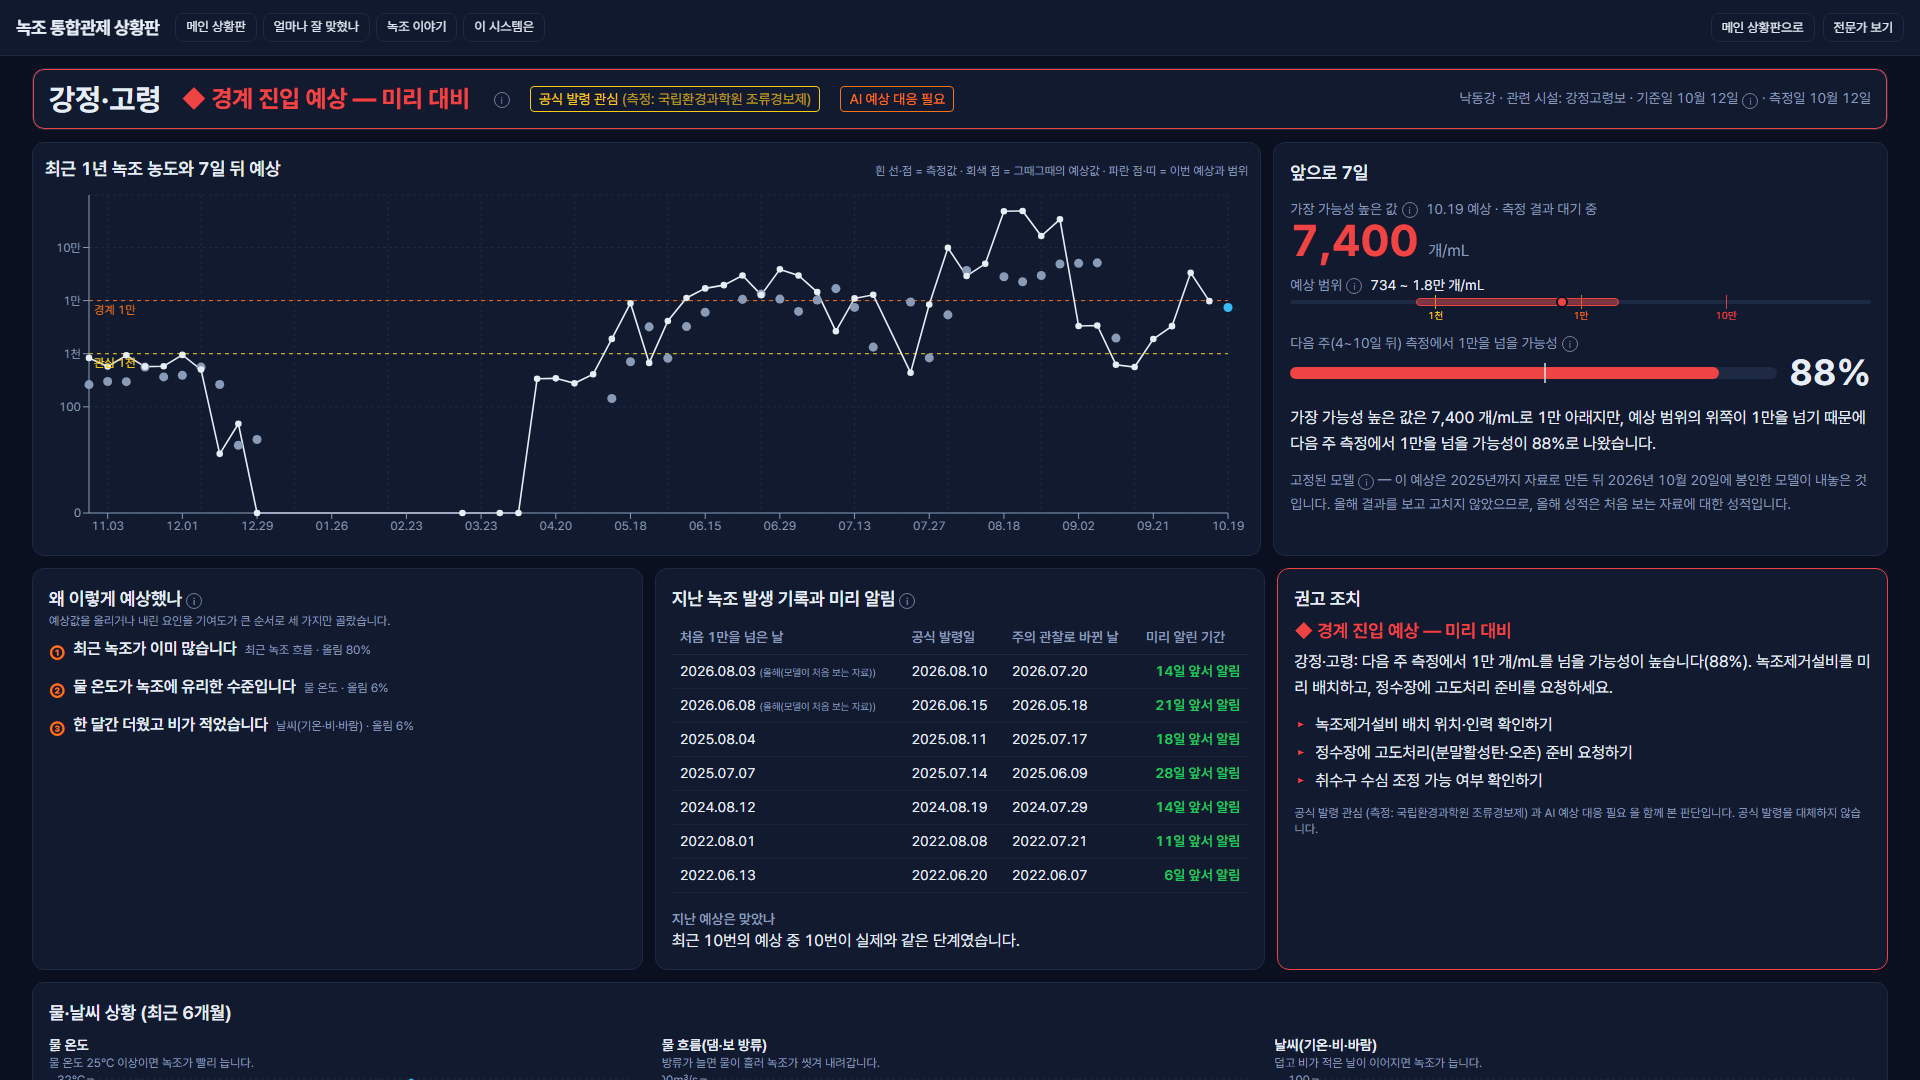
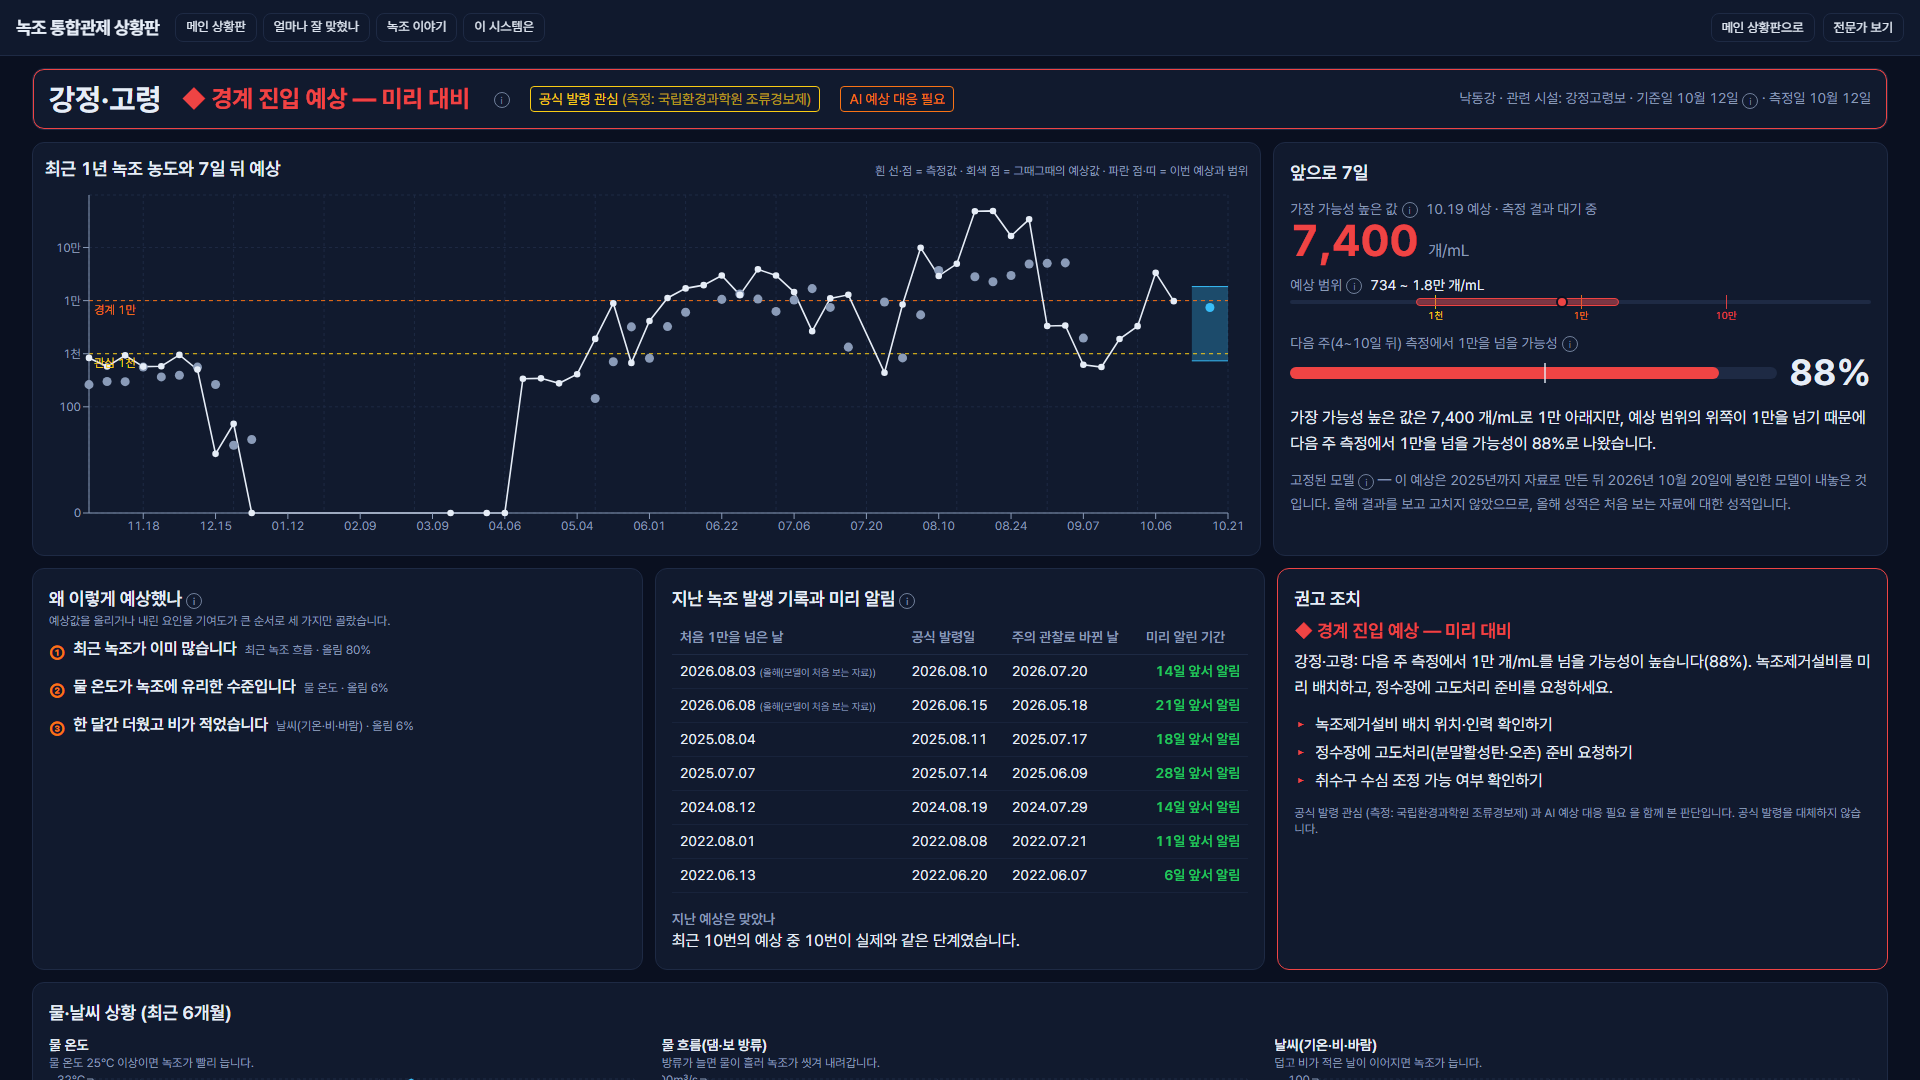
fix(web): 지점 상세 예상 범위 띠 렌더·타일 머리 줄 폭 조정
Claude-Session: https://claude.ai/code/session_017ddh39e3MD6zytL8k6pS4n

diff --git a/web/src/components/site/SiteCharts.tsx b/web/src/components/site/SiteCharts.tsx
@@ -1,6 +1,6 @@
 "use client";
 
-import { CartesianGrid, ComposedChart, ErrorBar, Line, ReferenceLine, ResponsiveContainer, Scatter, Tooltip, XAxis, YAxis } from "recharts";
+import { Area, CartesianGrid, ComposedChart, Line, ReferenceLine, ResponsiveContainer, Scatter, Tooltip, XAxis, YAxis } from "recharts";
 import { SITE } from "@/lib/copy";
 import { fmtCells, fmtDate } from "@/lib/format";
 
@@ -17,7 +17,7 @@ export function BigChart({ points, height = 380 }: { points: SeriesPoint[]; heig
     const q = toLog(p.q50);
     const lo = toLog(p.lo);
     const hi = toLog(p.hi);
-    return { date: p.date, obs: toLog(p.obs), q50: q, err: q != null && lo != null && hi != null ? [q - lo, hi - q] : undefined, band: lo != null && hi != null ? [lo, hi] : null, past_pred: toLog(p.past_pred) };
+    return { date: p.date, obs: toLog(p.obs), q50: q, band: lo != null && hi != null ? [lo, hi] : null, past_pred: toLog(p.past_pred) };
   });
   const maxLv = Math.max(4.5, ...data.flatMap((d) => [d.obs ?? 0, d.q50 ?? 0, d.past_pred ?? 0, (d.band?.[1] as number) ?? 0])) + 0.3;
   const ticks = [0, 2, 3, 4, 5, 6].filter((t) => t <= maxLv);
@@ -42,9 +42,8 @@ export function BigChart({ points, height = 380 }: { points: SeriesPoint[]; heig
         {maxLv > 6 && <ReferenceLine y={6} stroke={C.l3} strokeDasharray="4 4" label={{ value: "대발생 100만", fontSize: 12, position: "insideTopLeft", fill: C.l3 }} />}
         <Scatter dataKey="past_pred" name={SITE.chart.pastPred} fill={C.past} shape="circle" isAnimationActive={false} />
         <Line dataKey="obs" name={SITE.chart.obs} stroke={C.obs} strokeWidth={1.6} dot={{ r: 2.5, fill: C.obs }} connectNulls isAnimationActive={false} />
-        <Scatter dataKey="q50" name={SITE.chart.next} fill={C.pred} shape="circle" isAnimationActive={false}>
-          <ErrorBar dataKey="err" direction="y" width={14} strokeWidth={6} stroke={C.pred} opacity={0.45} />
-        </Scatter>
+        <Area dataKey="band" name={SITE.chart.band} stroke={C.pred} strokeWidth={1} fill={C.pred} fillOpacity={0.3} connectNulls={false} isAnimationActive={false} />
+        <Scatter dataKey="q50" name={SITE.chart.next} fill={C.pred} shape="circle" isAnimationActive={false} />
       </ComposedChart>
     </ResponsiveContainer>
   );

diff --git a/web/src/app/sites/[id]/page.tsx b/web/src/app/sites/[id]/page.tsx
@@ -4,7 +4,7 @@ import { PageFrame } from "@/components/PageFrame";
 import { RangeBar } from "@/components/control/SiteTile";
 import { BigChart, EnvChart } from "@/components/site/SiteCharts";
 import { BOARD, COMBO, GROUP_LABEL, OFFICIAL_LEVEL, REASON, REASON_WATER_UP_MILD, SITE, TERMS, TIER, TIER_EXPERT, comboOf, levelOfCells, reasonWaterDays, targetLabel, type FeatureGroup } from "@/lib/copy";
-import { ALERT_LEVEL_LABEL, fmtCells, fmtCellsKo, fmtDate, fmtDateFull, fmtDateKo, pctInt, tierOf } from "@/lib/format";
+import { ALERT_LEVEL_LABEL, addDays, fmtCells, fmtCellsKo, fmtDate, fmtDateFull, fmtDateKo, pctInt, tierOf } from "@/lib/format";
 import { getBloomEvents, getHydro, getLatestRun, getObservations, getPredictions, getShap, getSiteStatus, getSites, getWeather } from "@/lib/queries";
 
 export const revalidate = 300;
@@ -35,7 +35,7 @@ export default async function SitePage({ params, searchParams }: { params: Promi
   // 큰 차트: 1년 측정 + 지난 예상(회색) + 이번 예상(파란 점·띠)
   const latest = preds.at(-1);
   const pastByTarget = new Map(preds.filter((x) => x.target_date !== latest?.target_date).map((x) => [x.target_date, x.q50]));
-  const pts = [...obs.map((o) => ({ date: o.obs_date, obs: o.cell_count, past_pred: pastByTarget.get(o.obs_date) ?? null })), ...(latest ? [{ date: latest.target_date, obs: null, q50: latest.q50, lo: latest.q10_cqr, hi: latest.q90_cqr }] : [])].sort((a, b) => a.date.localeCompare(b.date));
+  const pts = [...obs.map((o) => ({ date: o.obs_date, obs: o.cell_count, past_pred: pastByTarget.get(o.obs_date) ?? null })), ...(latest ? [-2, 0, 2].map((d) => ({ date: addDays(latest.target_date, d).toISOString().slice(0, 10), obs: null, q50: d === 0 ? latest.q50 : null, lo: latest.q10_cqr, hi: latest.q90_cqr })) : [])].sort((a, b) => a.date.localeCompare(b.date));
 
   // 왜 이렇게 예상했나: 그룹별 기여 합 → 상위 3개 → §8.1 템플릿
   const byGroup = new Map<FeatureGroup, number>();

diff --git a/web/src/components/control/SiteTile.tsx b/web/src/components/control/SiteTile.tsx
@@ -53,12 +53,12 @@ export function SiteTile({ s, expert, rank, today }: { s: SiteStatus; expert: bo
       <span className="absolute inset-y-0 left-0 w-1.5" style={{ background: c.color }} aria-hidden />
       {/* 1행: 지점명 + 조합 라벨 + 공식 발령 칩 */}
       <div className="flex items-center gap-2 leading-tight">
-        <span className="shrink-0 whitespace-nowrap text-[15px] font-bold">{s.name}</span>
-        <span className="truncate text-[15px] font-bold" style={{ color: c.color }}>
+        <span className="shrink-0 whitespace-nowrap text-[15px] font-bold tracking-tight">{s.name}</span>
+        <span className="truncate text-[15px] font-bold tracking-tight" style={{ color: c.color }}>
           {c.icon} {c.label}
         </span>
         <Info text={`${c.tip} ${datesTip}`} />
-        <span className="ml-auto shrink-0 rounded border px-1.5 py-0.5 text-xs" style={{ borderColor: OFFICIAL_LEVEL[lvl].color, color: OFFICIAL_LEVEL[lvl].color }} title={BOARD.basis.nier}>
+        <span className="ml-auto shrink-0 rounded border px-1 py-0.5 text-[11px]" style={{ borderColor: OFFICIAL_LEVEL[lvl].color, color: OFFICIAL_LEVEL[lvl].color }} title={BOARD.basis.nier}>
           {BOARD.tile.official} {OFFICIAL_LEVEL[lvl].label}
         </span>
       </div>

diff --git a/reports/screenshots/banned_words_check.md b/reports/screenshots/banned_words_check.md
@@ -1,11 +1,9 @@
-# 쉽게 보기 금지어 검사 — 2026-10-21T03:24
+# 쉽게 보기 금지어 검사 — 2026-10-21T03:25
 
 기준: http://localhost:3300, 금지어 33개
 
 - /: 0건
 - /sites/2011G56: 0건
-- /sites/2020G33: 0건
-- /sites/2011G26: 0건
 - /log: 0건
 
 합계 0건
